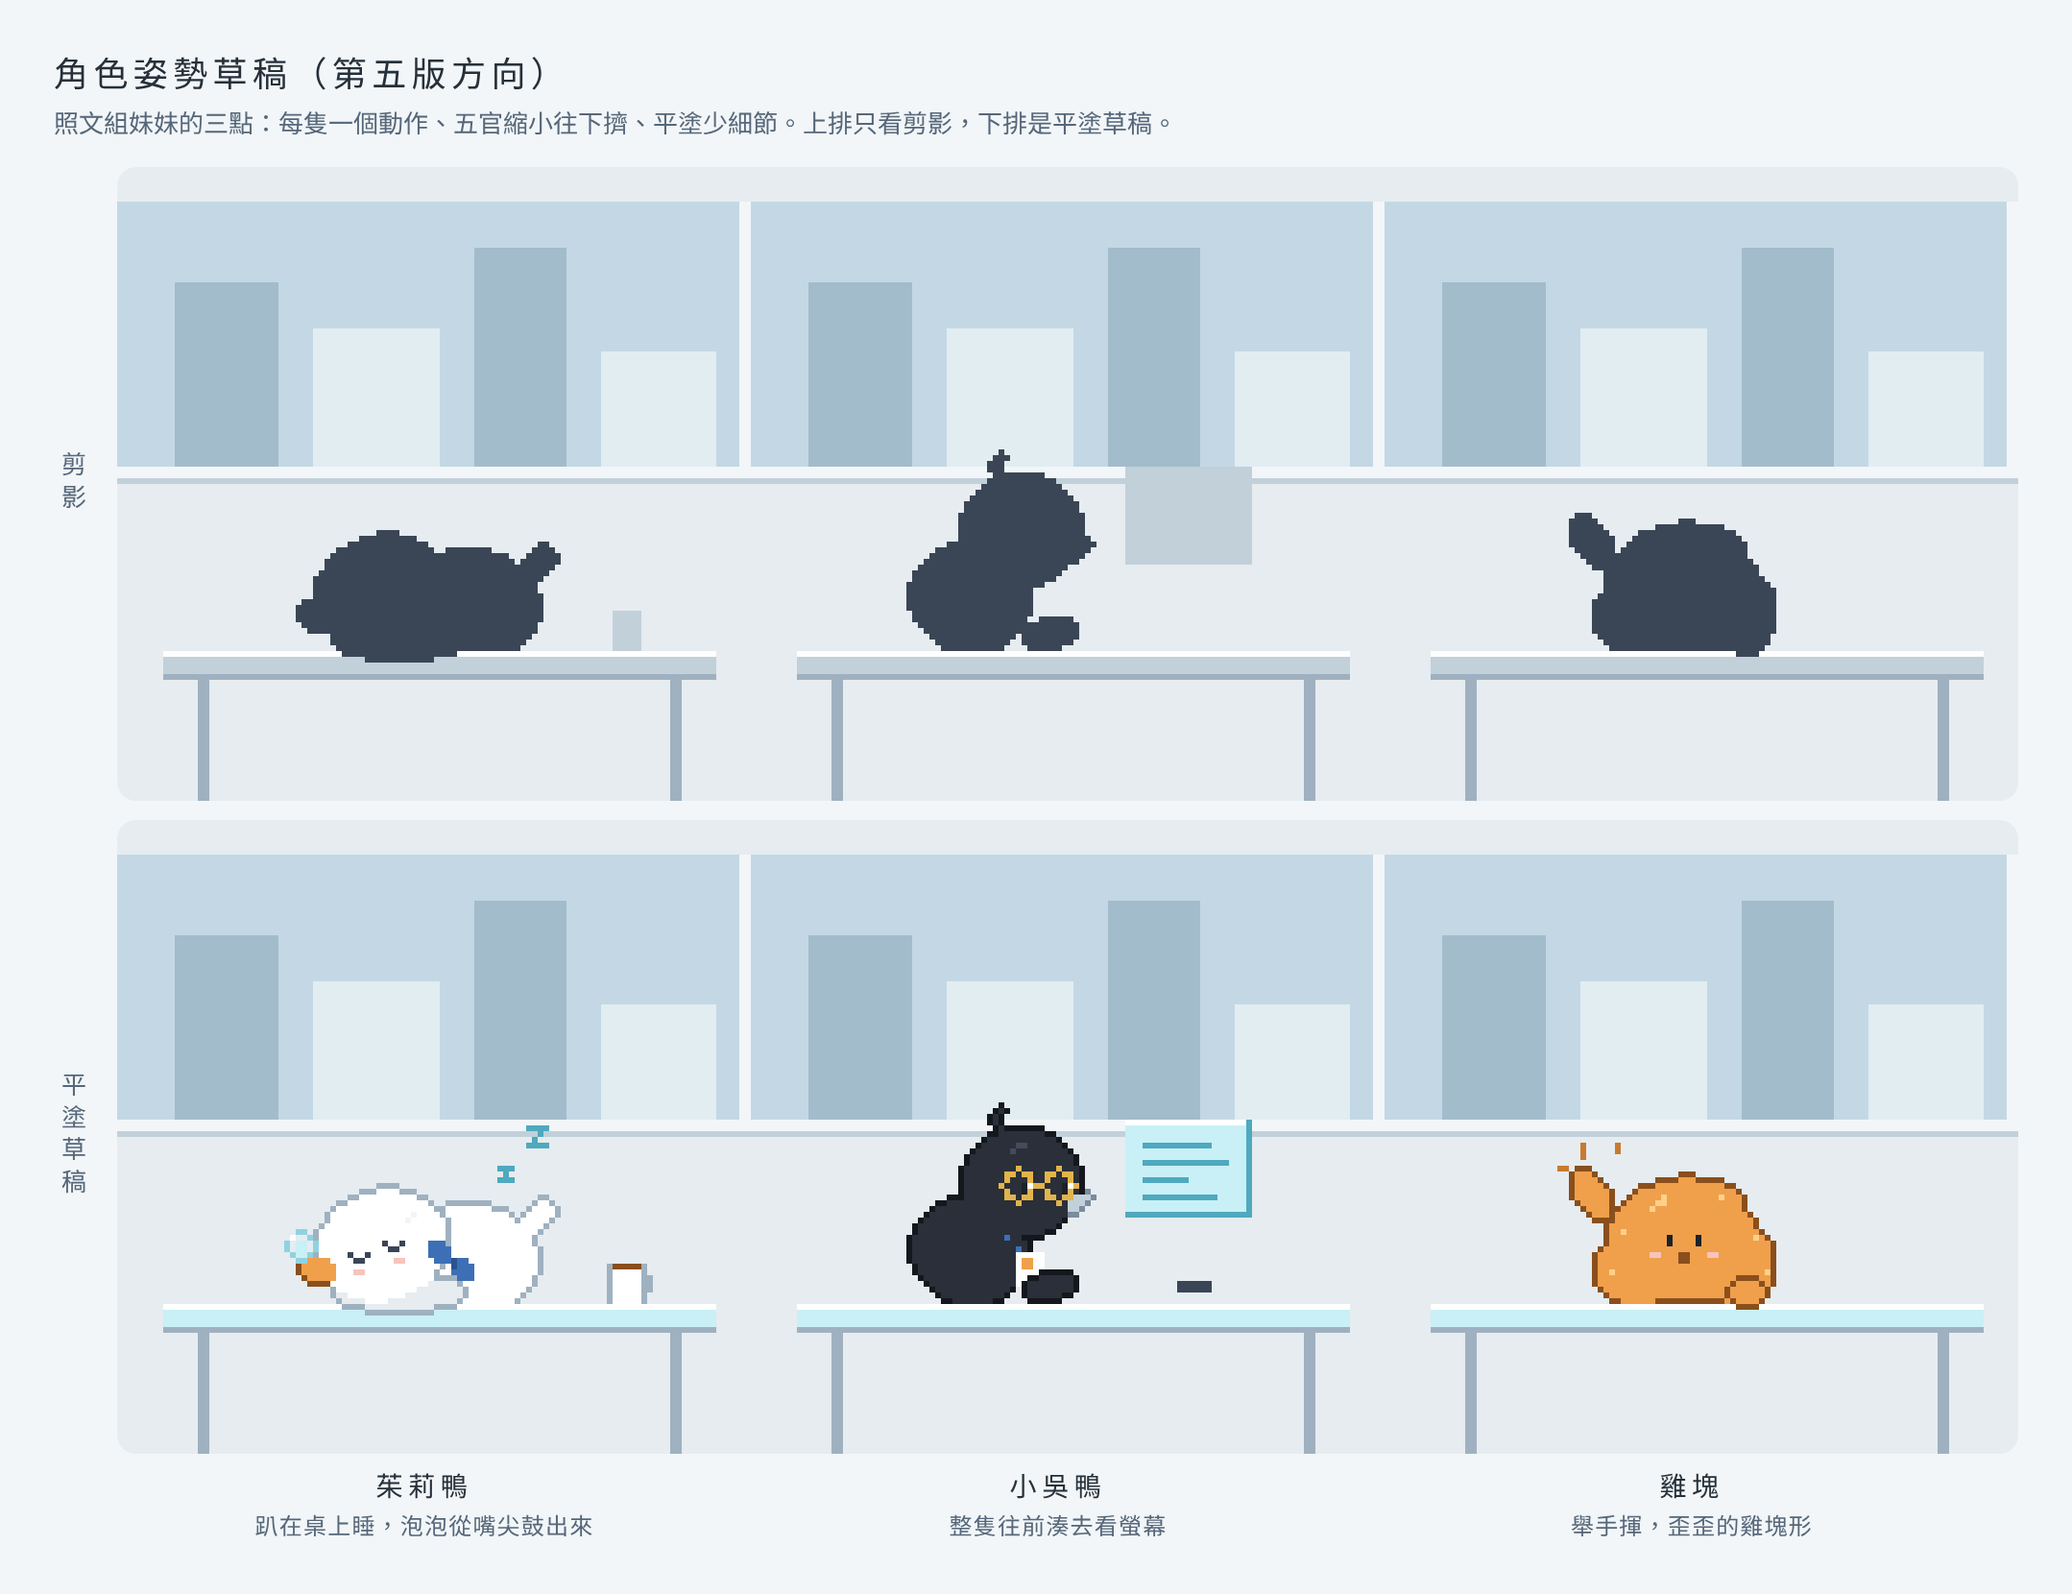
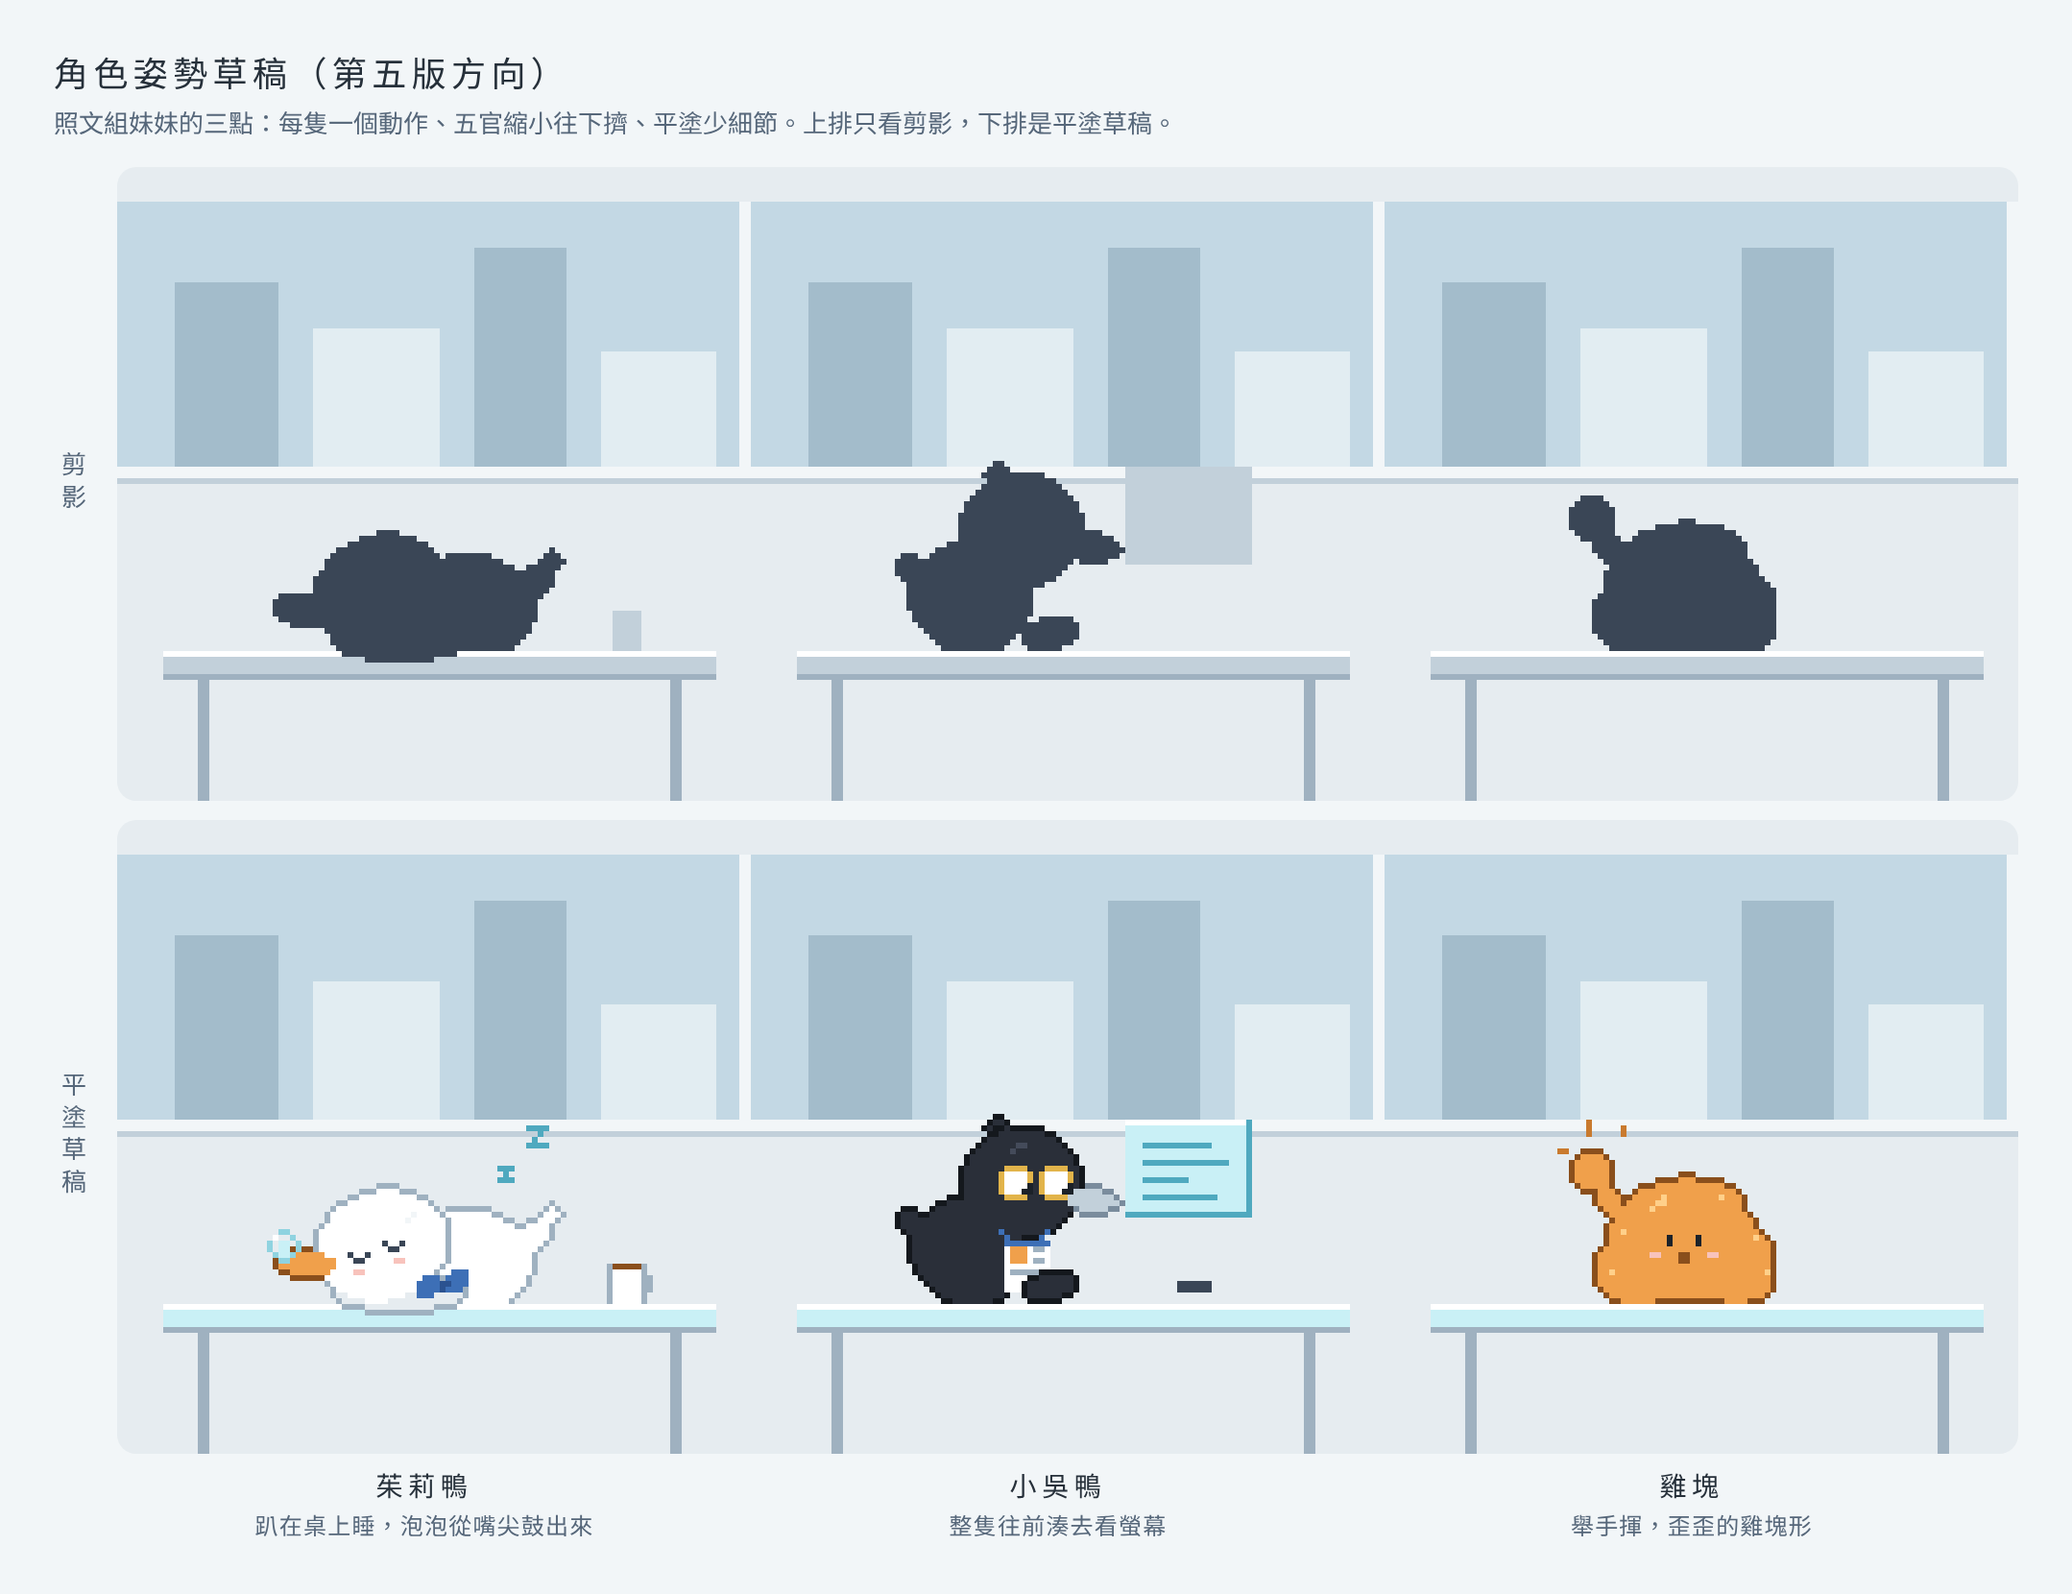
docs: company pose sketches v2
Claude-Session: https://claude.ai/code/session_01DfELKGAuUeHGLNNJha5AAX

diff --git a/docs/plans/company/poses.html b/docs/plans/company/poses.html
@@ -52,16 +52,16 @@ function scene(X, sil) {
 
   // ---------- 茱莉鴨：趴在桌上睡 ----------
   { const cx = 52, B = back[0], F = front[0];
-    el(B, cx + 8, dy - 7, 13, 10, C.wh, -.15);            // 垮下來的背
-    el(B, cx + 21, dy - 15, 3.5, 2, C.wh, -.7);           // 屁股翹毛
+    el(B, cx + 8, dy - 7, 12, 9, C.wh, -.1);              // 垮下來的背
+    el(B, cx + 19, dy - 11, 5, 2.4, C.wh, -.55); el(B, cx + 23, dy - 15, 2, 1.4, C.wh, -.9);   // 短短翹翹的鴨屁股
     el(F, cx - 3, dy - 2, 11, 3, C.g4);                   // 翅膀疊起來當枕頭
     el(F, cx - 6, dy - 10, 11.5, 9.5, C.wh, -.3);         // 頭側躺在翅膀上
-    el(F, cx - 17, dy - 6, 3.5, 2, C.o2, .35);            // 小扁嘴，往左下
+    el(F, cx - 19, dy - 7, 5, 2.2, C.o2, .12); el(F, cx - 23, dy - 8, 1.6, 1.4, C.o2);   // 鴨嘴往前凸出去，嘴尖微翹
     if (!sil) { outline(F); outline(B); }
     else { outline(F); outline(B); }
     if (!sil) {
       // 領結：在頭跟背中間，歪一邊
-      el(F, cx + 4, dy - 9, 2.6, 1.8, C.b1, .5); el(F, cx + 8, dy - 6, 2.6, 1.8, C.b1, .5); put(F, cx + 6, dy - 8, C.b0); put(F, cx + 6, dy - 7, C.b0);
+      el(F, cx + 2, dy - 3, 2.4, 1.8, C.b1, -.3); el(F, cx + 7, dy - 4, 2.4, 1.8, C.b1, -.3); put(F, cx + 4, dy - 4, C.b0); put(F, cx + 5, dy - 4, C.b0); put(F, cx + 4, dy - 3, C.b0);
       // 閉眼（小小的、往下擠、靠近）＋腮紅
       [[cx - 12, dy - 9], [cx - 6, dy - 11]].forEach(([x, y]) => { put(F, x, y, C.ink2); put(F, x + 1, y + 1, C.ink2); put(F, x + 2, y + 1, C.ink2); put(F, x + 3, y, C.ink2); });
       put(F, cx - 11, dy - 6, C.pk2); put(F, cx - 10, dy - 6, C.pk2); put(F, cx - 4, dy - 8, C.pk2); put(F, cx - 3, dy - 8, C.pk2);
@@ -72,27 +72,27 @@ function scene(X, sil) {
   { const cx = 150, B = back[1], F = front[1];
     el(B, cx - 2, dy - 9, 10, 9, C.k1, .35);              // 身體往右前傾
     el(B, cx + 7, dy - 21, 10, 9.5, C.k1);                // 頭往前
-    put(B, cx + 3, dy - 31, C.k1); put(B, cx + 2, dy - 32, C.k1); put(B, cx + 2, dy - 33, C.k1); put(B, cx + 3, dy - 34, C.k1);   // 一根捲毛
-    rect(B, cx + 15, dy - 19, 3, 2, C.g3); put(B, cx + 18, dy - 19, C.g3); put(B, cx + 15, dy - 17, C.g3); put(B, cx + 16, dy - 17, C.g3);   // 小尖嘴朝螢幕
+    put(B, cx + 4, dy - 31, C.k1); put(B, cx + 3, dy - 32, C.k1); put(B, cx + 2, dy - 32, C.k1); put(B, cx + 1, dy - 31, C.k1);   // 往後捲的一撮毛
+    el(B, cx - 11, dy - 13, 4, 2, C.k1, .7);               // 短短翹起的鴨尾巴
+    el(B, cx + 19, dy - 18, 4.5, 1.9, C.g3, .08); put(B, cx + 23, dy - 18, C.g3);   // 小鴨嘴尖尖伸向螢幕
     el(F, cx + 12, dy - 3, 4.5, 2.2, C.k1, -.2);          // 翅膀伸到鍵盤
     outline(B); outline(F);
     if (!sil) {
       // 圓眼鏡：細細一圈金邊，眼睛是豆豆（看向右邊）
-      const ring = (x, y) => { for (let k = 0; k < 16; k++) { const a = k / 16 * Math.PI * 2; put(B, x + Math.cos(a) * 2.6, y + Math.sin(a) * 2.6, C.au1); } put(B, x + 1, y, C.wh); put(B, x + 1, y + 1, C.wh); put(B, x + 2, y, C.wh); };
-      ring(cx + 6, dy - 21); ring(cx + 13, dy - 21); put(B, cx + 9, dy - 21, C.au1);
-      put(B, cx + 7, dy - 21, C.wh); put(B, cx + 7, dy - 20, C.wh);
-      put(B, cx + 7, dy - 21, C.ink0); put(B, cx + 7, dy - 20, C.ink0); put(B, cx + 14, dy - 21, C.ink0); put(B, cx + 14, dy - 20, C.ink0);
+      const lens = (x, y) => { el(B, x, y, 3.2, 3.2, C.au1); el(B, x, y, 2.4, 2.4, C.wh); put(B, x + .5, y - .5, C.ink0); put(B, x + 1.5, y - .5, C.ink0); put(B, x + .5, y + .5, C.ink0); put(B, x + 1.5, y + .5, C.ink0); put(B, x + .5, y - .5, C.wh); };
+      lens(cx + 6, dy - 21); lens(cx + 13, dy - 21); put(B, cx + 9.5, dy - 22, C.au1);   // 白鏡片、黑豆豆往右看
       put(B, cx + 5, dy - 27, C.k2); put(B, cx + 6, dy - 28, C.k2); put(B, cx + 7, dy - 28, C.k2);   // 頭頂一點亮
       // 識別證往前晃
-      put(B, cx + 4, dy - 12, C.b1); put(B, cx + 6, dy - 10, C.b1); rect(B, cx + 6, dy - 9, 5, 6, C.wh); rect(B, cx + 7, dy - 8, 2, 2, C.o2);
+      put(B, cx + 3, dy - 13, C.b1); put(B, cx + 4, dy - 12, C.b1); put(B, cx + 11, dy - 13, C.b1); put(B, cx + 10, dy - 12, C.b1);
+      rect(B, cx + 4, dy - 11, 8, 9, C.wh); rect(B, cx + 5, dy - 10, 3, 3, C.o2); rect(B, cx + 9, dy - 10, 2, 1, C.g2); rect(B, cx + 9, dy - 8, 2, 1, C.g2); rect(B, cx + 5, dy - 6, 6, 1, C.g2); rect(B, cx + 4, dy - 11, 8, 1, C.b1);   // 識別證
     }
   }
   // ---------- 雞塊：舉手揮 ----------
   { const cx = 272, B = back[2], F = front[2];
     el(B, cx, dy - 11, 13, 10, C.o2, .12);               // 歪歪的雞塊：橫的、下面胖、上面平平凹凸
     el(B, cx - 8, dy - 6, 7.5, 6, C.o2); el(B, cx + 9, dy - 7, 6.5, 7, C.o2); el(B, cx + 2, dy - 18, 8, 3.5, C.o2, .1);
-    el(B, cx - 16, dy - 19, 2.6, 4.4, C.o2, -.5);         // 舉起來的手
-    el(F, cx + 11, dy - 2, 3.2, 2, C.o2);                 // 另一隻手搭桌上
+    el(B, cx - 13, dy - 18, 1.8, 3.2, C.o2, -.5); el(B, cx - 16, dy - 23, 3, 3, C.o2);   // 短短圓圓、高高舉起來的小手
+    el(B, cx + 12, dy - 3, 2.6, 2, C.o2);                 // 另一隻小手搭在桌邊
     outline(B); outline(F);
     if (!sil) {
       put(B, cx - 3, dy - 12, C.ink0); put(B, cx - 3, dy - 11, C.ink0); put(B, cx + 2, dy - 12, C.ink0); put(B, cx + 2, dy - 11, C.ink0);   // 豆豆眼，小、近、偏下
@@ -109,8 +109,8 @@ function scene(X, sil) {
   front.forEach(L => blit(X, L, sil));
   if (!sil) {
     // 茱莉鴨：泡泡、Z、咖啡
-    X.fillStyle = C.cy; [[0, -3], [1, -3], [-1, -2], [2, -2], [-2, -1], [3, -1], [-2, 0], [3, 0], [-1, 1], [2, 1], [0, 2], [1, 2]].forEach(([a, b]) => X.fillRect(31 + a, dy - 10 + b, 1, 1));
-    R(31, dy - 11, 2, 3, C.cy2); R(30, dy - 12, 1, 1, C.wh);
+    X.fillStyle = C.cy; [[0, -3], [1, -3], [-1, -2], [2, -2], [-2, -1], [3, -1], [-2, 0], [3, 0], [-1, 1], [2, 1], [0, 2], [1, 2]].forEach(([a, b]) => X.fillRect(28 + a, dy - 10 + b, 1, 1));
+    R(28, dy - 11, 2, 3, C.cy2); R(27, dy - 12, 1, 1, C.wh);
     [[66, dy - 24, 3], [71, dy - 31, 4]].forEach(([x, y, s]) => { R(x, y, s, 1, C.cy0); for (let k = 1; k < s - 1; k++) R(x + s - 1 - k, y + k, 1, 1, C.cy0); R(x, y + s - 1, s, 1, C.cy0); });
     R(86, dy - 7, 5, 7, C.wh); R(85, dy - 7, 1, 7, C.g2); R(91, dy - 7, 1, 7, C.g2); R(86, dy - 7, 5, 1, C.o0); R(92, dy - 5, 1, 3, C.g2);
     // 小吳鴨的螢幕：飄在他前面
@@ -119,7 +119,7 @@ function scene(X, sil) {
     [[3, 4, 12], [3, 7, 15], [3, 10, 8], [3, 13, 13]].forEach(([a, b, w]) => R(sx + a, sy + b, w, 1, C.cy0));
     R(sx + 9, dy - 4, 6, 2, C.ink2);
     // 雞塊揮手的小線
-    R(254, dy - 28, 1, 3, C.o1); R(250, dy - 24, 2, 1, C.o1); R(260, dy - 28, 1, 2, C.o1);
+    R(255, dy - 32, 1, 3, C.o1); R(250, dy - 27, 2, 1, C.o1); R(261, dy - 31, 1, 2, C.o1);
   } else {
     R(175, dy - 32, 22, 17, C.g3); R(86, dy - 7, 5, 7, C.g3);
   }

diff --git a/docs/plans/company/README.md b/docs/plans/company/README.md
@@ -31,7 +31,7 @@
 ## 已定
 - **介面風格要換**（2026-11-24 使用者：「有點復古了，我不要，我要現代日式＋科技感」）：**像素辦公室和角色保留，只換介面**（軟木板、紙條、木牌這些）。三種風格比較 `style.png`（`style.html`）：甲＝無印良品＋儀表板、乙＝近未來毛玻璃、丙＝和風終端機（車站告示）。**使用者選乙（近未來毛玻璃）**；接著問畫風能不能改，做畫風比較 `artstyle.png`（`artstyle.html`）：甲＝等角 2.5D 扁平、乙＝日式線稿插畫、丙＝柔和 3D（跟會員頭像一樣圓潤漸層）、丁＝近未來柔和 3D（使用者要「多一張符合介面的」：冷色落地窗、玻璃桌、全息螢幕、青色邊光）、戊＝現代像素・細顆粒（使用者要「現代感像素風，顆粒細一點」：375×330 一顆一個 CSS 像素、冷色、抖色漸層、玻璃桌、全息螢幕、青色邊光），都套毛玻璃介面。**使用者選戊（現代像素・細顆粒）**，覺得還有點粗糙，請專業的美術盯細節：像素美術指導（AI 審稿員）看了兩輪，照清單改了兩輪（固定 34 色、選擇性描邊、三階明暗、月牙邊光、身體在桌面切掉、全息螢幕實心＋掃描線＋緊貼發光外圈、天空三條橫帶、城市三層、窗框 3 顆、「丼」像素名牌、龜背芋扁心形葉、茱莉鴨閉眼垂頭、小吳鴨楔形嘴、雞塊亮弧）。前後對照 `artstyle-e-before-after.png`。
 - **可愛度**（2026-11-24 使用者：「角色不可愛，請個文組妹妹幫忙」）：文組妹妹（AI 審稿員，愛三麗鷗、角落生物、吉伊卡哇）看了說「形狀對了但臉沒靈魂、像卡在桌子後面的貼紙」，美術指導翻成像素規格後重畫：頭佔全身約 58%、豆豆眼＋白反光（保留招牌眼）、同一種淡粉圓腮紅 `#f8c3bc`、配件放大 1.5 倍、手／翅膀搭在桌上、椅背、影子、玻璃桌下的透影。茱莉鴨歪頭睡＋鼻涕泡泡＋馬克杯；小吳鴨三根翹毛、頭頂反光、往左尖的三角嘴、鍵盤；雞塊改成直立的圓角馬鈴薯、ω 嘴、米黃麵衣。**可愛公式**（之後角色都照做）：頭 55～60%、五官集中在頭下半部；豆豆眼＋一顆白反光但留招牌眼；腮紅同色、圓、在眼睛斜下；外框同色系深兩階、左上亮右下暗；招牌配件 1.5 倍。前後對照 `cute-before-after.png`。
-- **第四版被打槍**（使用者：「好醜，有種說不出的感覺」）。文組妹妹：「像夜市娃娃機的山寨三麗鷗，零件照清單貼上去；三隻正面對稱、手平放，像拍證件照；公式讓三隻像同一個模子印的。」她的三點：每隻一個動作和一點歪斜、五官縮小靠近往下放（黑臉不貼腮紅）、平塗少細節（可愛從形狀來）。所以上面的「可愛公式」只當參考，不要每隻照套。第五版先畫姿勢草稿 `poses.html`／`poses.png`（上排剪影、下排平塗）：茱莉鴨趴桌睡、小吳鴨往前湊看螢幕、雞塊舉手揮（橫的歪雞塊形，不要有像耳朵的凸起）。外框是自動加的：角色畫在自己的層，空格旁邊有顏色就塗那個顏色深一階。使用者點頭後再上細節和顏色。動畫建議（茱莉鴨睡覺 4 格、全息螢幕掃描線、收款時雞塊壓扁彈起＋金幣、小吳鴨眼鏡閃光）還沒做。
+- **第四版被打槍**（使用者：「好醜，有種說不出的感覺」）。文組妹妹：「像夜市娃娃機的山寨三麗鷗，零件照清單貼上去；三隻正面對稱、手平放，像拍證件照；公式讓三隻像同一個模子印的。」她的三點：每隻一個動作和一點歪斜、五官縮小靠近往下放（黑臉不貼腮紅）、平塗少細節（可愛從形狀來）。所以上面的「可愛公式」只當參考，不要每隻照套。第五版先畫姿勢草稿 `poses.html`／`poses.png`（上排剪影、下排平塗）：茱莉鴨趴桌睡、小吳鴨往前湊看螢幕、雞塊舉手揮（橫的歪雞塊形，不要有像耳朵的凸起）。外框是自動加的：角色畫在自己的層，空格旁邊有顏色就塗那個顏色深一階。妹妹看草稿：方向對了、分得出三隻，但剪影不像鴨子、小吳鴨的臉被黑色吞掉。照她改了第二版：鴨嘴從剪影凸出去、茱莉鴨短短翹翹的鴨屁股和脖子上的領結、小吳鴨側頭伸出小尖嘴＋短尾巴＋白鏡片黑豆豆＋大識別證、雞塊短短圓圓高舉的小手。使用者點頭後再上細節和顏色。動畫建議（茱莉鴨睡覺 4 格、全息螢幕掃描線、收款時雞塊壓扁彈起＋金幣、小吳鴨眼鏡閃光）還沒做。
 - 2026-11-24 第三輪：**規模乘 3**、**最短 3 分鐘**、**做砸了只付一成**（開工前看得到成功率）、**升級價錢照建議**、**中期目標先做第一批**（設備、系列案、員工圖鑑、公司榜）。數字見 `economy.md` 第二版。
 - **公司帳戶**（2026-11-24，使用者：「都要，執行長增資也要」）：**搬家升級只能用公司帳戶付**，還要「做完幾件案子」；結案的錢進公司帳戶，可以轉進錢包，錢包不能直接轉進公司。**錢包可以付**：聘人的簽約金、刷新應徵、員工訓練（花錢升級）、設備、打廣告（一段時間委託板多一張、特好賺比較常出現）、加班費（馬上做完一件）。**執行長增資**：每天可以從錢包轉一筆進公司帳戶，上限＝當階一天能賺的量（最多快一倍）。目的：打工賺很多的人有優勢（比較快、比較強），但不會第一天就跳到大樓。
 - 2026-11-24 第二輪：數字**先暫定** `economy.md` 那組；**公司名字最多 12 字**；入口**放在會員中心打工那一區**（甲）。

diff --git a/changelog/2026-11.md b/changelog/2026-11.md
@@ -1278,3 +1278,7 @@
 - 上一版變可愛了但「有種說不出的醜」，文組妹妹說像娃娃機的山寨娃娃：三隻都正面坐好、像拍證件照，套同一套公式反而沒個性。
 - 照她的建議先畫姿勢草稿：茱莉鴨趴在桌上睡、小吳鴨整隻往前湊去看螢幕、雞塊舉手揮；五官變小擠在下面，顏色改平塗。
 - 草稿在 `docs/plans/company/poses.png`（上排剪影、下排平塗），確認方向後再上細節。只是企劃，網站沒有變。
+
+## 2026-11-24 18:35（台灣）　開公司：姿勢草稿第二版
+- 妹妹說剪影看不出是鴨子、小吳鴨的臉被黑色吞掉，照她的意見改：兩隻鴨的嘴都從輪廓凸出去，茱莉鴨有翹翹的鴨屁股、領結回到脖子；小吳鴨鏡片變白、看得到黑豆豆眼睛，識別證變大；雞塊的手變成短短圓圓、高高舉起。
+- 只是企劃，網站沒有變。
